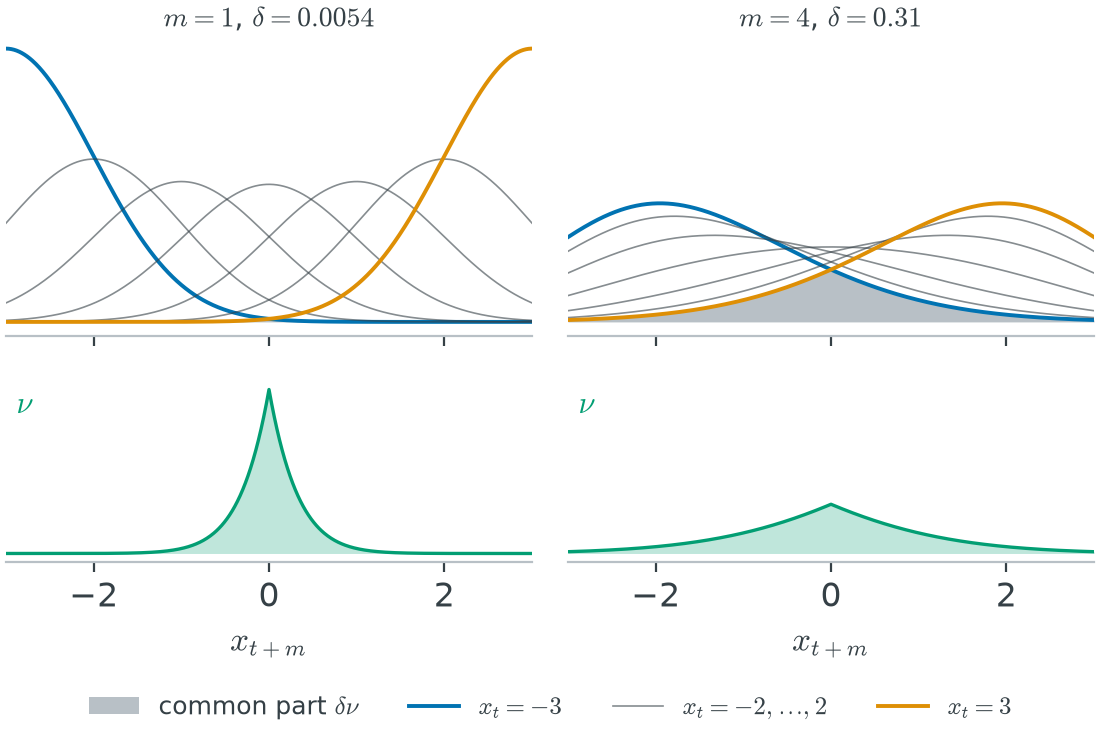
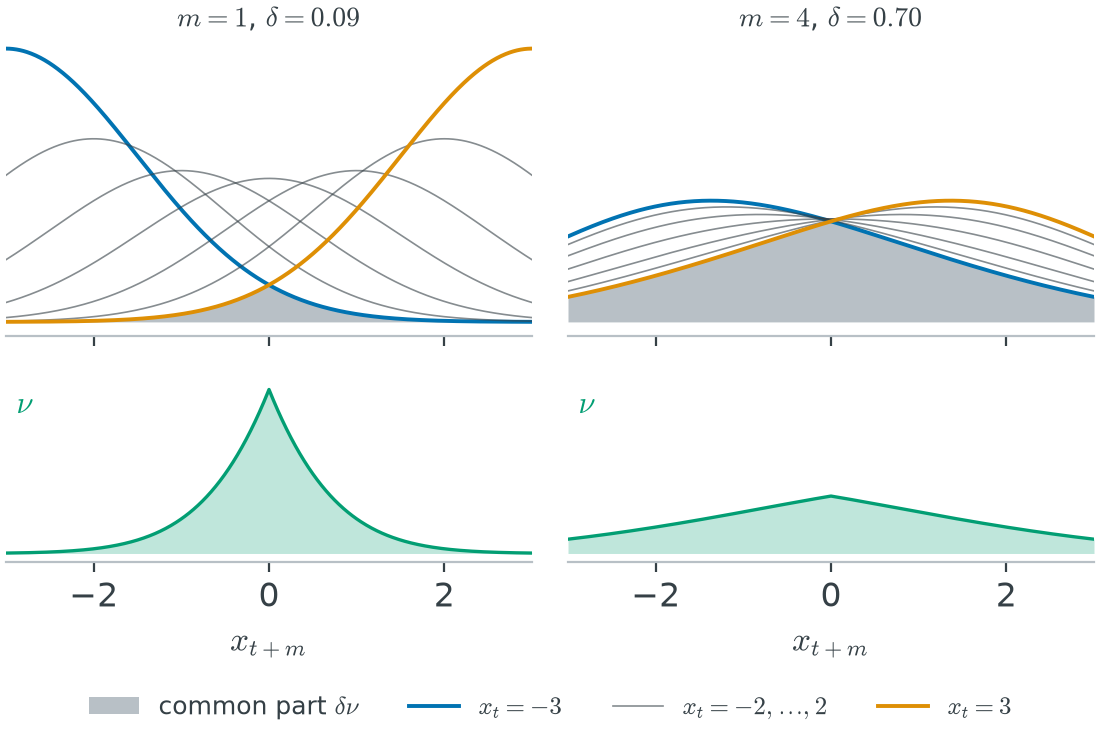
Lecture 6: larger steps in the Doeblin figure, so that the common part shows at m = 1

diff --git a/scripts/figures_lec6.py b/scripts/figures_lec6.py
@@ -48,13 +48,15 @@ def save(fig, name):
 # Doeblin condition ---------------------------------------------------------------------
 
 def doeblin_overlap():
-    """m-step transition densities of a Gaussian random walk truncated to [-3, 3], from the starting
+    """m-step transition densities of a Gaussian random walk with steps of standard deviation 1.5,
+    truncated to [-3, 3], from the starting
     states -3, -2, ..., 3, for m = 1 and m = 4 (top). Their pointwise minimum over all starting states
     is delta * nu, shaded; delta is its area. Below, nu itself, the common part rescaled to area 1,
     on its own scale."""
     g = np.linspace(-3, 3, 601)
     dx = g[1] - g[0]
-    K = np.exp(-.5 * (g[None, :] - g[:, None]) ** 2)
+    step = 1.5                                       # standard deviation of a step
+    K = np.exp(-.5 * ((g[None, :] - g[:, None]) / step) ** 2)
     K /= K.sum(1, keepdims=True) * dx                # rows are densities on the grid
     starts = np.arange(-3, 4)
     fig, axes = plt.subplots(2, 2, figsize=(5.8, 3.9), dpi=200, sharex=True,
@@ -77,7 +79,7 @@ def doeblin_overlap():
             else:
                 ax.plot(g, row, color=GREY, lw=.6, alpha=.6,
                         label="$x_t = -2, \\ldots, 2$" if x0 == -2 else None)
-        ax.set_title(r"$m = %d$, $\delta = %.2g$" % (m, delta), fontsize=10, pad=3)
+        ax.set_title(r"$m = %d$, $\delta = %.2f$" % (m, delta), fontsize=10, pad=3)
         axn.fill_between(g, common / delta, color=GREEN, alpha=.25, lw=0)
         axn.plot(g, common / delta, color=GREEN, lw=1.2)
         axn.set_xlabel("$x_{t+m}$")
